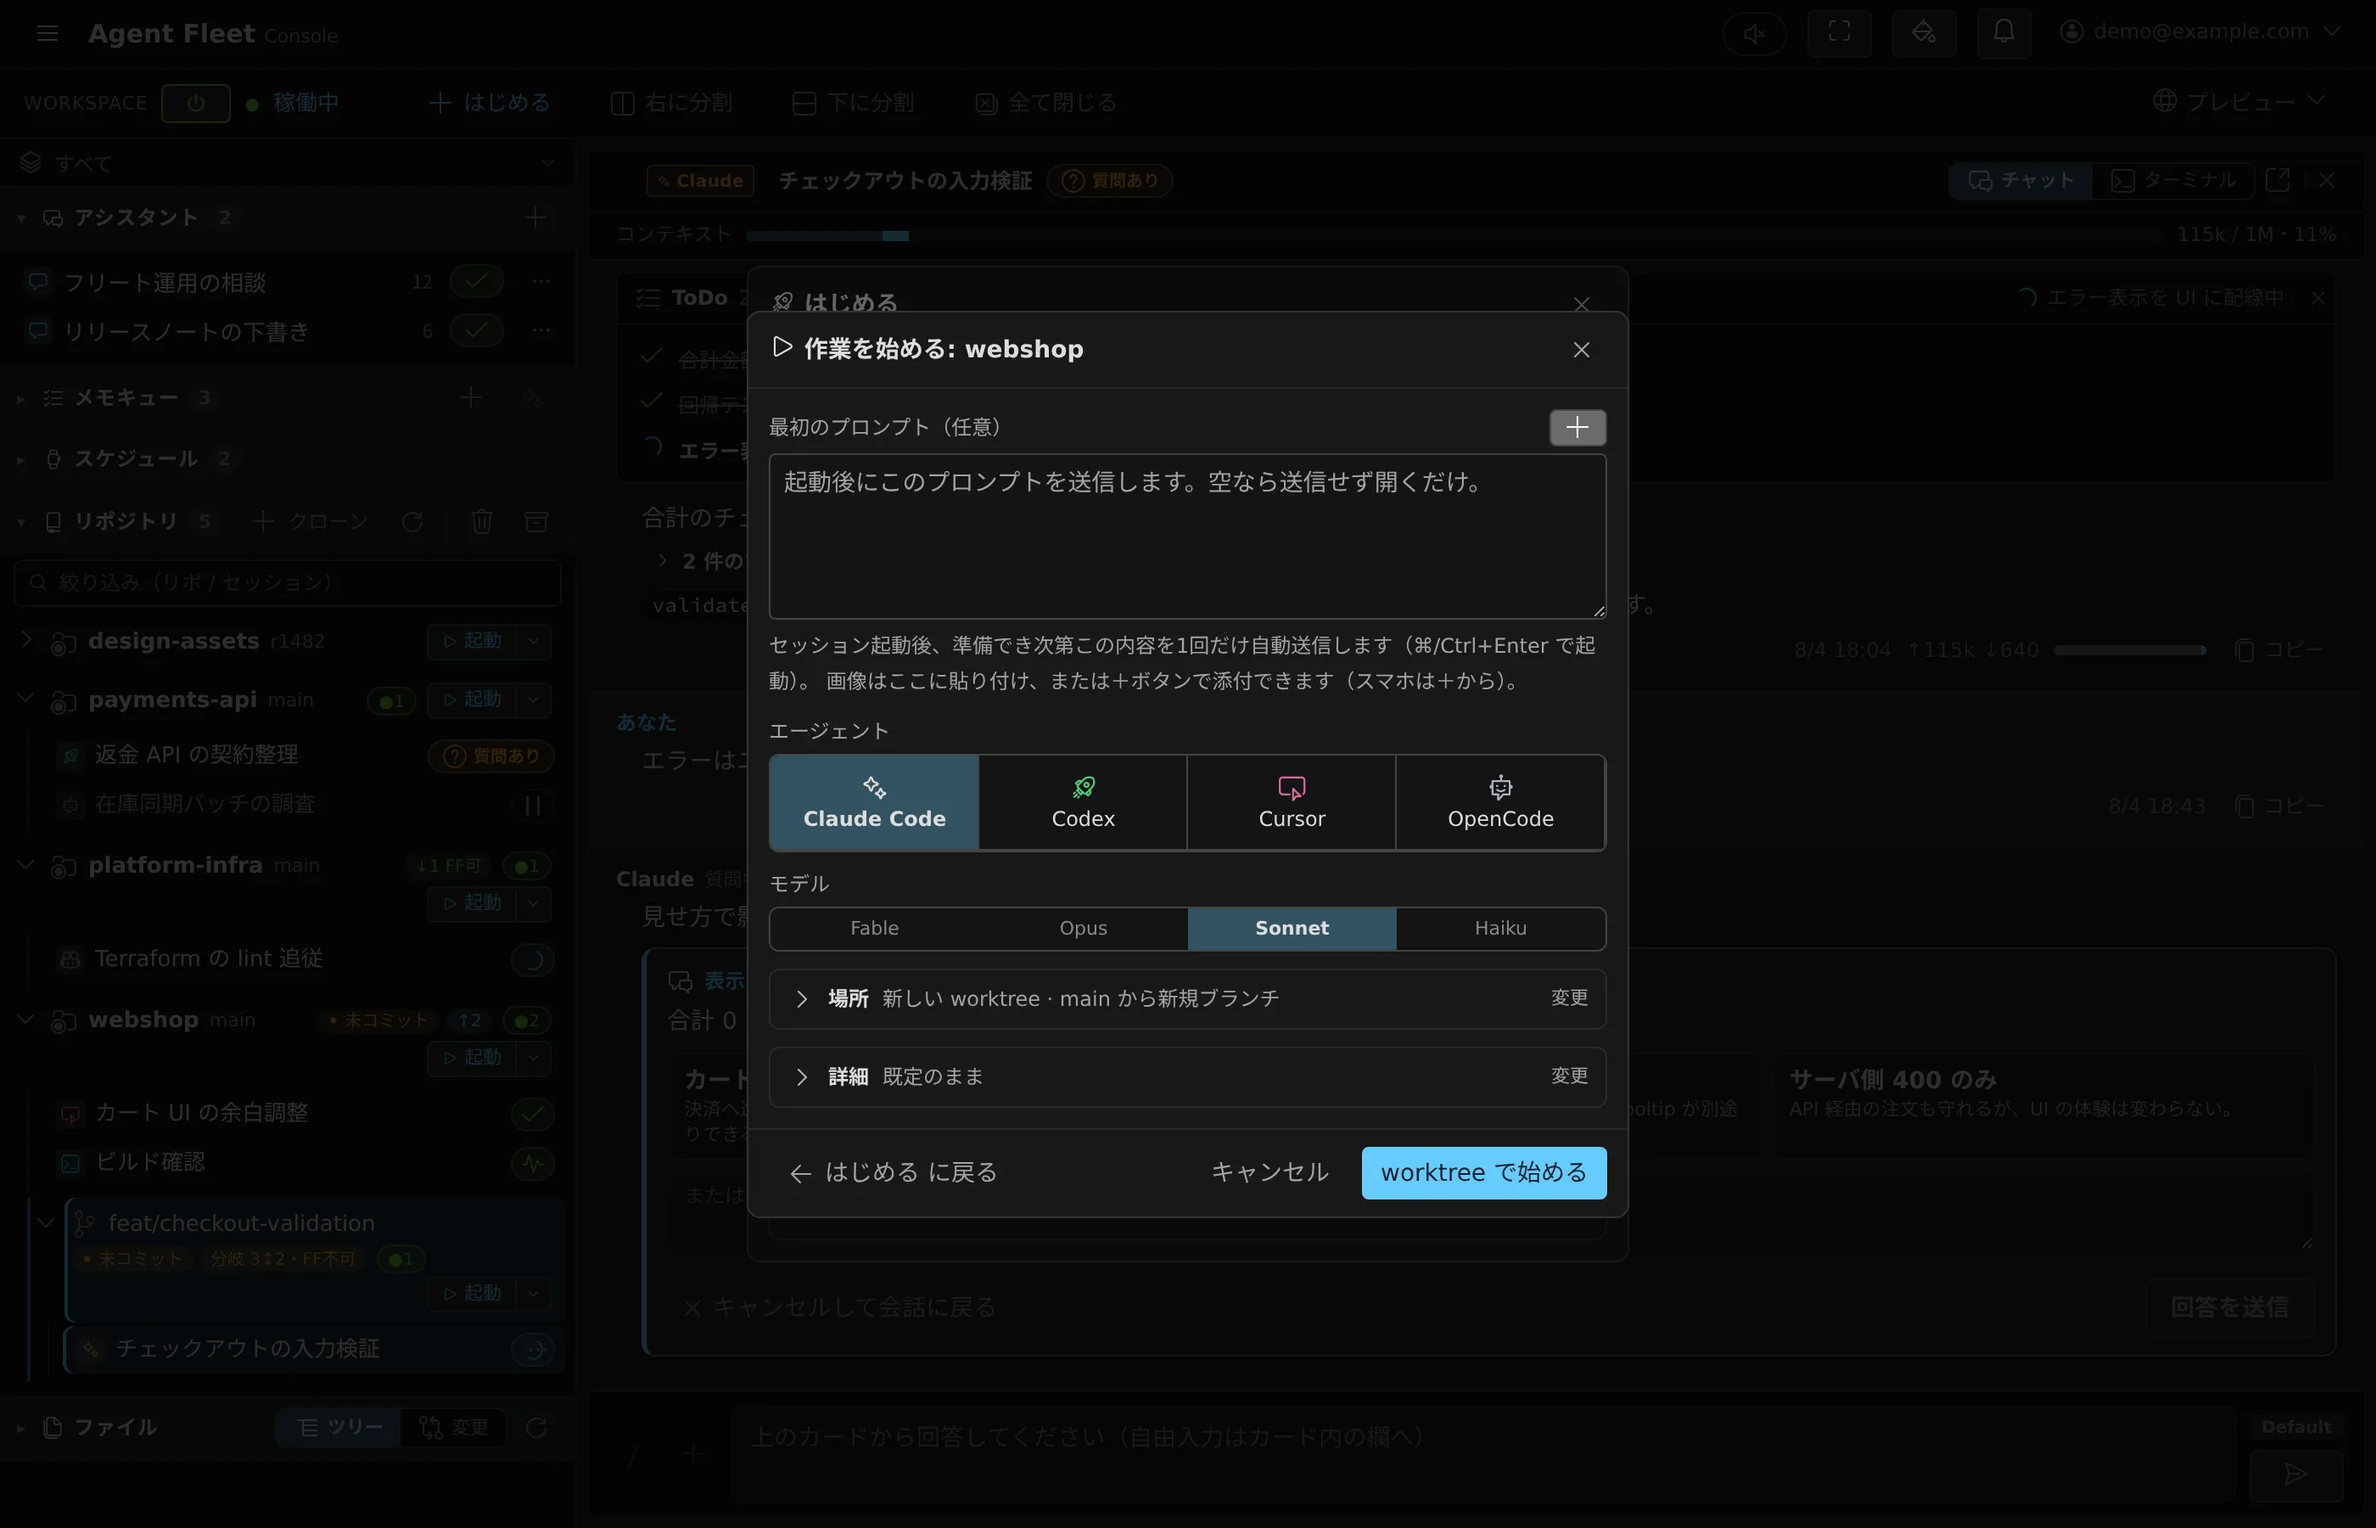
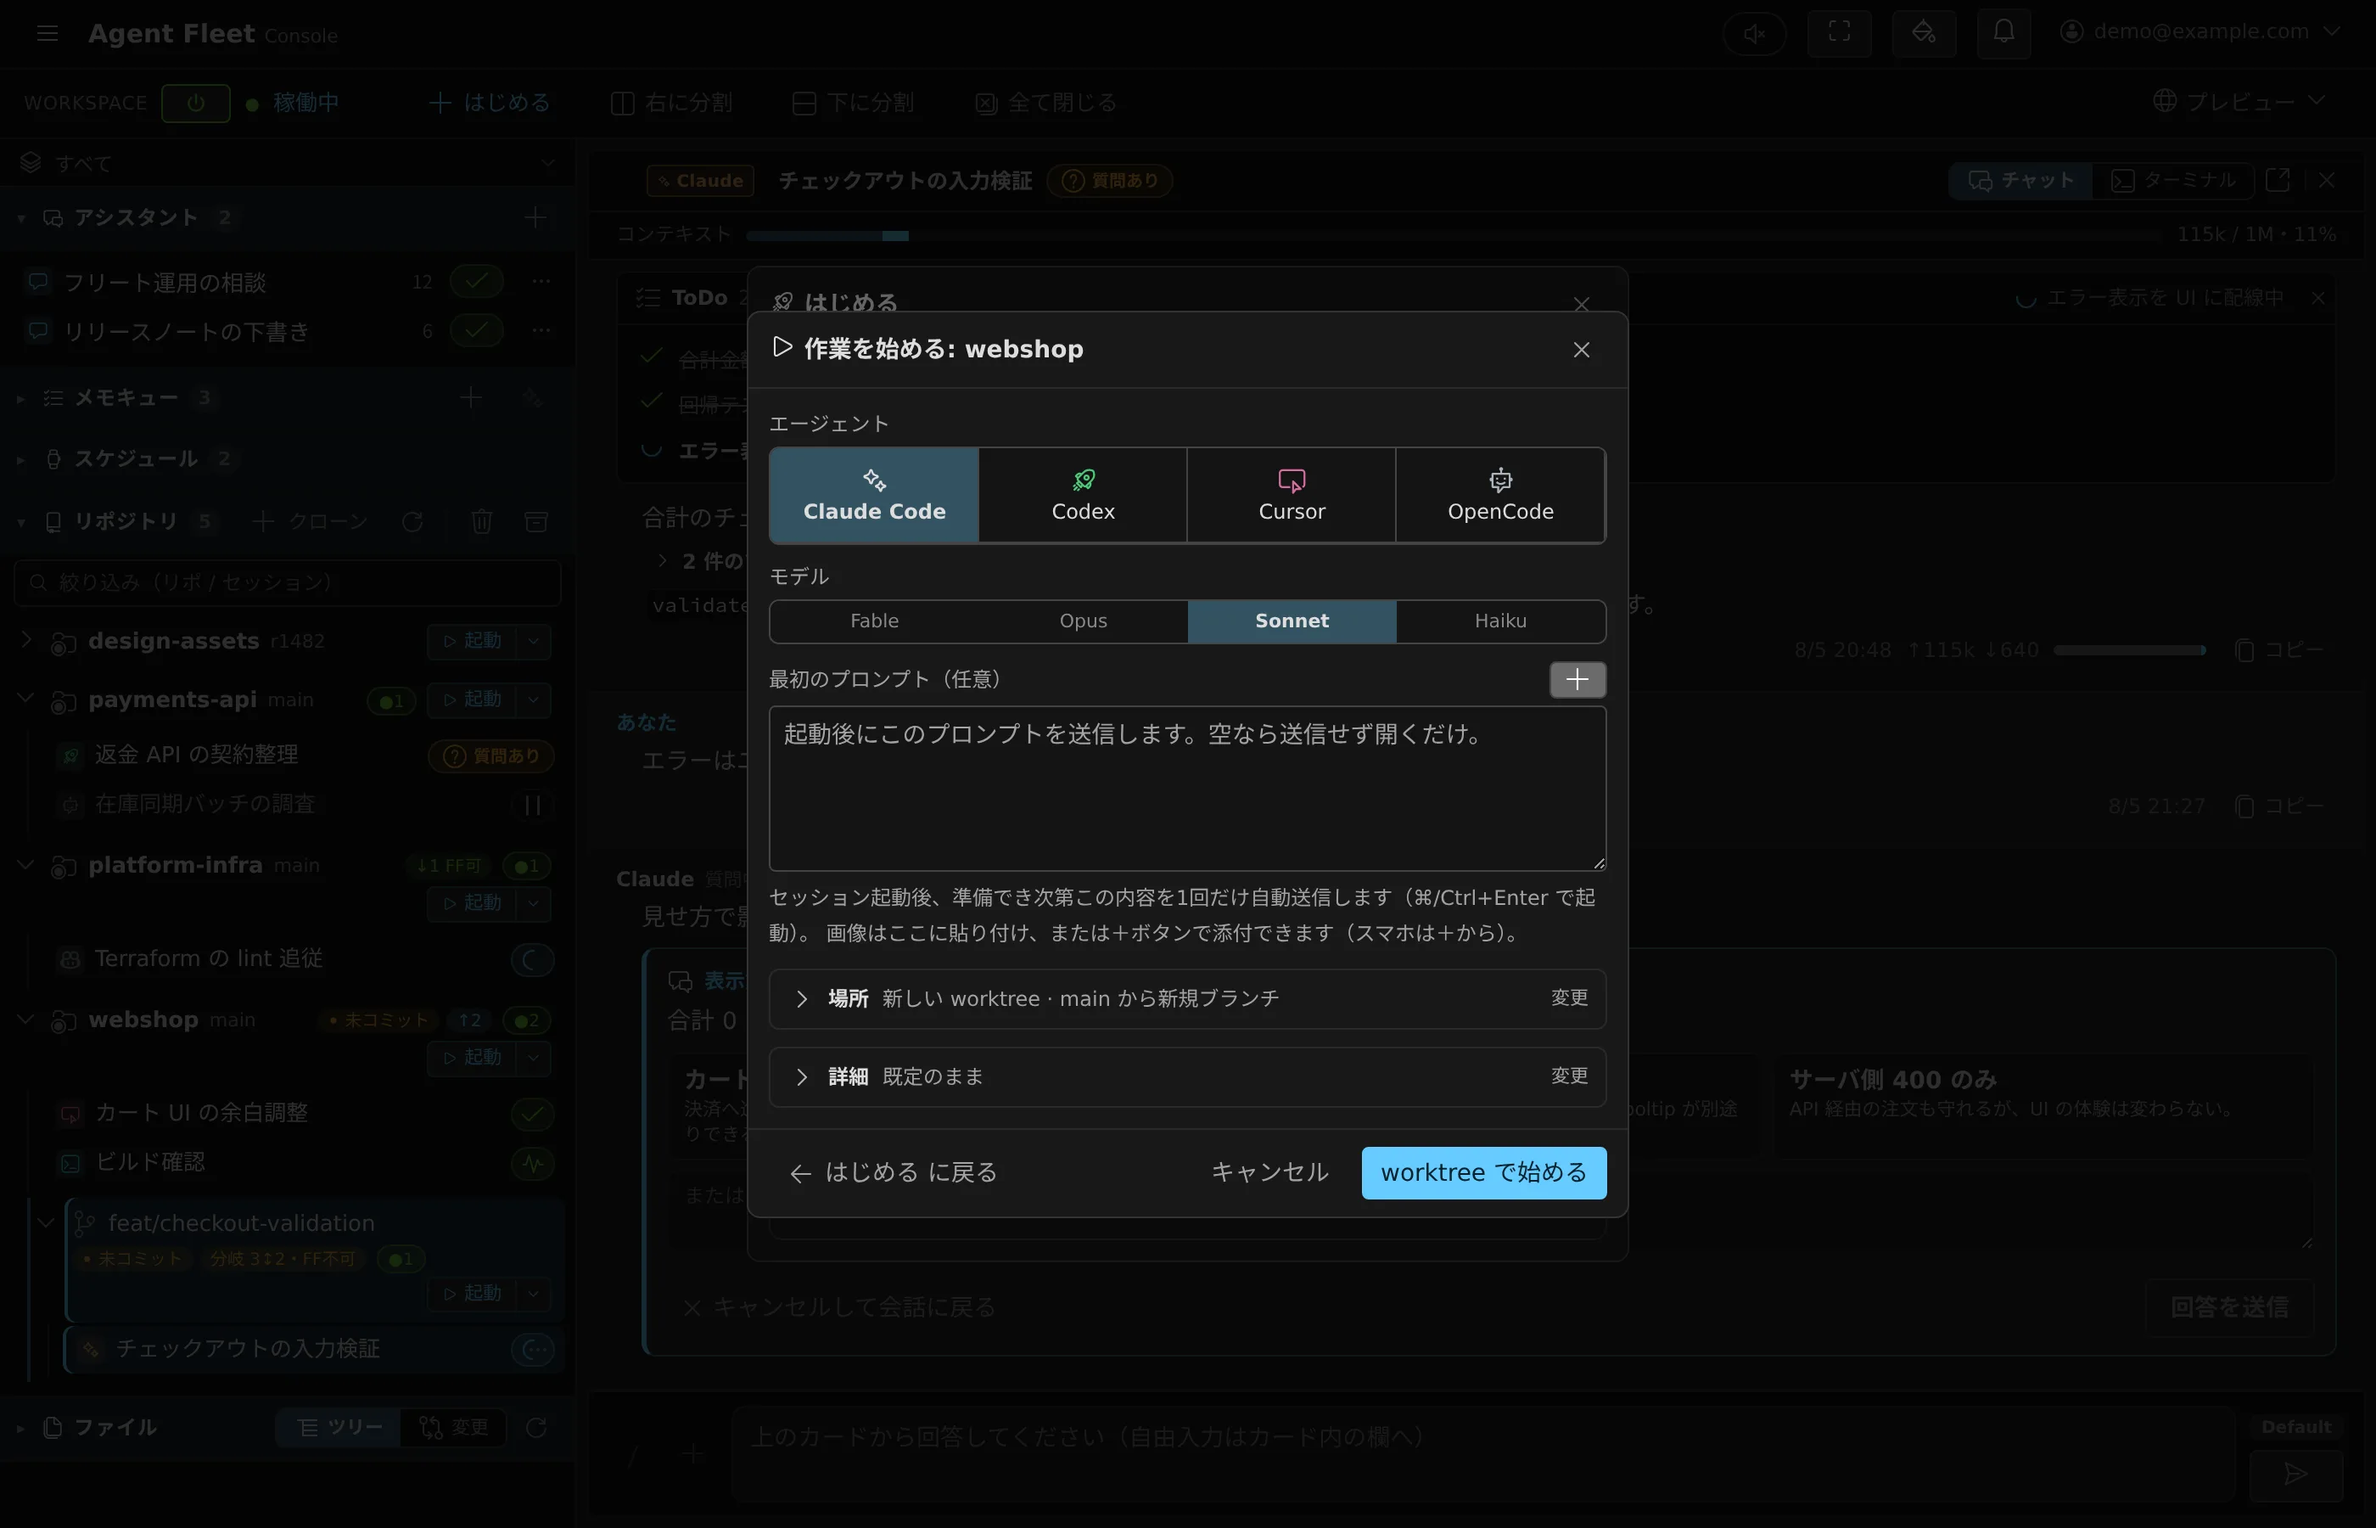
fix(console): 起動モーダルの並びをエージェント→モデル→プロンプトへ戻す
「作業を始める」の常時表示部は「最初のプロンプト → エージェント → モデル」の
順だったが、まず何で動かすかを決めてから書きたいので、エージェントとモデルを
先頭へ戻し、その下にプロンプト、以降は場所・詳細のまま。

プロンプト欄の autoFocus 属性は外し、focus({preventScroll:true}) に置き換えた。
autoFocus はブラウザが対象を可視域へスクロールさせるため、そのままだと開いた
瞬間に上のエージェント選択が画面外へ流れる（先頭に置いていた頃の逆再現）。

README スクショ docs/img/launch-{ja,en}.webp も再生成。

Changed region(s): [[0.3107, 0.3733, 0.6836, 0.6222], [0.3107, 0.28, 0.6525, 0.3733], [0.6525, 0.2489, 0.6836, 0.3111]]

diff --git a/console/src/features/repos/LaunchModal.tsx b/console/src/features/repos/LaunchModal.tsx
@@ -5,7 +5,7 @@
 // Port of the old components/LaunchModal.
 //
 // レイアウト（2026-08 整理）: 11 個のフィールドが同格に並んでいたのをやめ、
-//   ①今回決めること（最初のプロンプト → エージェント → モデル）を常時表示
+//   ①今回決めること（エージェント → モデル → 最初のプロンプト）を常時表示
 //   ②場所（worktree / ブランチ / 基点）と ③詳細（実行方式・effort・開始モード・
 //     作業ディレクトリ・セッション名）は「要約 1 行 ＋ 展開」
 // の 3 層にしてある。既定値は repoLast がリポジトリ毎に覚えていて大半は正しいので、
@@ -269,6 +269,13 @@ export function LaunchModal({ repo, branch, path, kinds, settling = false, allow
   ].filter(Boolean);
   const advSummary = advParts.length ? advParts.join(" · ") : tr("launch.sum.defaults");
 
+  // 初期フォーカスは最初のプロンプト欄。autoFocus 属性だと、ブラウザが対象を可視域へ
+  // スクロールさせ、上に積んだエージェント選択が開いた瞬間に画面外へ流れる。
+  // preventScroll で「先頭が見えたまま、すぐ打てる」を両立させる。
+  useEffect(() => {
+    textRef.current?.focus({ preventScroll: true });
+  }, []);
+
   // Revoke every held preview URL when the modal unmounts (avoids leaking object URLs).
   useEffect(() => () => imagesRef.current.forEach((x) => URL.revokeObjectURL(x.url)), []);
 
@@ -401,9 +408,63 @@ export function LaunchModal({ repo, branch, path, kinds, settling = false, allow
       lockClose={busy}
     >
       <div className="ui-modal-body">
-        {/* 最初のプロンプト（任意）— 先頭に置く。ユーザーが自分で持ち込む唯一の入力で、
-            autoFocus もここに当たる。最下部にあった頃は、モーダルを開いた瞬間に
-            autoFocus のスクロールで最下部まで飛び、エージェント選択が画面外へ消えていた。 */}
+        <div className="ui-field">
+          <span className="ui-field-label">{tr("launch.field.agent")}</span>
+          {!kinds.length && (
+            // Empty means one of two very different things: still checking, or the
+            // connection check failed / nothing is authenticated. Say which — a bare
+            // empty picker reads as a broken modal.
+            <div className="muted launch-noagents">
+              {tr(settling ? "launch.agents_checking" : "launch.agents_none")}
+            </div>
+          )}
+          {/* 折り返しグリッド（ui.css .ui-seg.big）。以前は横スクロールで 4 枚目以降が
+              切れており、7 種類あることも気づけなかった。サブラベル（「◯◯ を起動」）は
+              カード名の言い換えで情報が無いので title に落とし、1 行ぶん詰めてある。 */}
+          <div className="ui-seg big">
+            {kinds.map((k) => {
+              const a = agentOf(k);
+              return (
+                <button
+                  key={k}
+                  type="button"
+                  title={tr(a.launchHintKey)}
+                  className={"seg-btn kind-" + a.cssClass + (kind === k ? " active" : "")}
+                  onClick={() => {
+                    const defaults = agentLaunchDefault(settings, k);
+                    setKind(k);
+                    setModel(resolveModel(k, repo, defaults.model));
+                    setEffort(resolveEffort(k, repo, defaults.effort));
+                    setStartMode(resolveStartMode(k, repo, defaults.startMode));
+                    setDriver(a.managedDriver ? "managed" : "");
+                  }}
+                >
+                  <Icon name={a.icon} className="seg-ic" />
+                  {kindDisplayName(k)}
+                </button>
+              );
+            })}
+          </div>
+        </div>
+
+        {hasModel && (
+          <div className="ui-field">
+            <span className="ui-field-label">{tr("launch.field.model")}</span>
+            <ModelPicker
+              kind={kind}
+              model={model}
+              onChange={(next) => {
+                setModel(next);
+                setEffort("");
+              }}
+            />
+          </div>
+        )}
+
+        {/* 最初のプロンプト（任意）— エージェント／モデルの下。入力欄なのでフォーカスは
+            ここに当てるが、autoFocus 属性は使わない（ブラウザが要素を可視域へスクロール
+            させ、モーダルを開いた瞬間に上のエージェント選択が画面外へ消える）。
+            preventScroll で「先頭が見えたまま入力できる」を両立させている。 */}
         <div className="ui-field">
           <span className="ui-field-label launch-prompt-label">
             <span>{tr("launch.first_prompt")}</span>
@@ -485,7 +546,6 @@ export function LaunchModal({ repo, branch, path, kinds, settling = false, allow
             onKeyDown={onKey}
             onPaste={onPaste}
             rows={4}
-            autoFocus
             placeholder={tr("launch.first_prompt_ph")}
           />
           <span className="ui-field-hint">
@@ -493,59 +553,6 @@ export function LaunchModal({ repo, branch, path, kinds, settling = false, allow
             {canPasteImage && " " + tr("launch.image_paste_note")}
           </span>
         </div>
-
-        <div className="ui-field">
-          <span className="ui-field-label">{tr("launch.field.agent")}</span>
-          {!kinds.length && (
-            // Empty means one of two very different things: still checking, or the
-            // connection check failed / nothing is authenticated. Say which — a bare
-            // empty picker reads as a broken modal.
-            <div className="muted launch-noagents">
-              {tr(settling ? "launch.agents_checking" : "launch.agents_none")}
-            </div>
-          )}
-          {/* 折り返しグリッド（ui.css .ui-seg.big）。以前は横スクロールで 4 枚目以降が
-              切れており、7 種類あることも気づけなかった。サブラベル（「◯◯ を起動」）は
-              カード名の言い換えで情報が無いので title に落とし、1 行ぶん詰めてある。 */}
-          <div className="ui-seg big">
-            {kinds.map((k) => {
-              const a = agentOf(k);
-              return (
-                <button
-                  key={k}
-                  type="button"
-                  title={tr(a.launchHintKey)}
-                  className={"seg-btn kind-" + a.cssClass + (kind === k ? " active" : "")}
-                  onClick={() => {
-                    const defaults = agentLaunchDefault(settings, k);
-                    setKind(k);
-                    setModel(resolveModel(k, repo, defaults.model));
-                    setEffort(resolveEffort(k, repo, defaults.effort));
-                    setStartMode(resolveStartMode(k, repo, defaults.startMode));
-                    setDriver(a.managedDriver ? "managed" : "");
-                  }}
-                >
-                  <Icon name={a.icon} className="seg-ic" />
-                  {kindDisplayName(k)}
-                </button>
-              );
-            })}
-          </div>
-        </div>
-
-        {hasModel && (
-          <div className="ui-field">
-            <span className="ui-field-label">{tr("launch.field.model")}</span>
-            <ModelPicker
-              kind={kind}
-              model={model}
-              onChange={(next) => {
-                setModel(next);
-                setEffort("");
-              }}
-            />
-          </div>
-        )}
 
         {/* 場所: worktree（隔離・既定）か このコピーで直接か。worktree 行では選択肢
             なし（この worktree 内で直接起動）ので、折りたたまず 1 行の注記で出す。 */}
